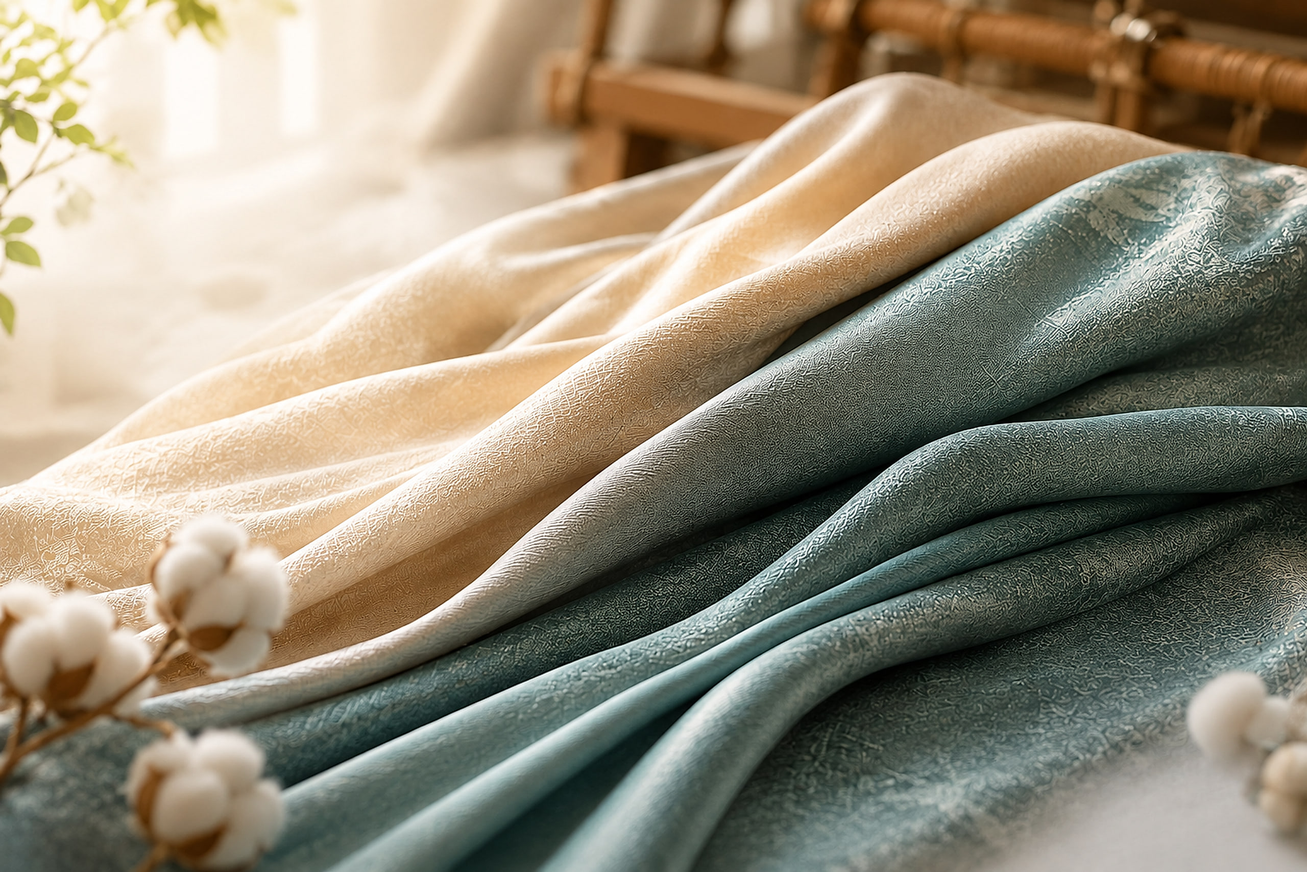
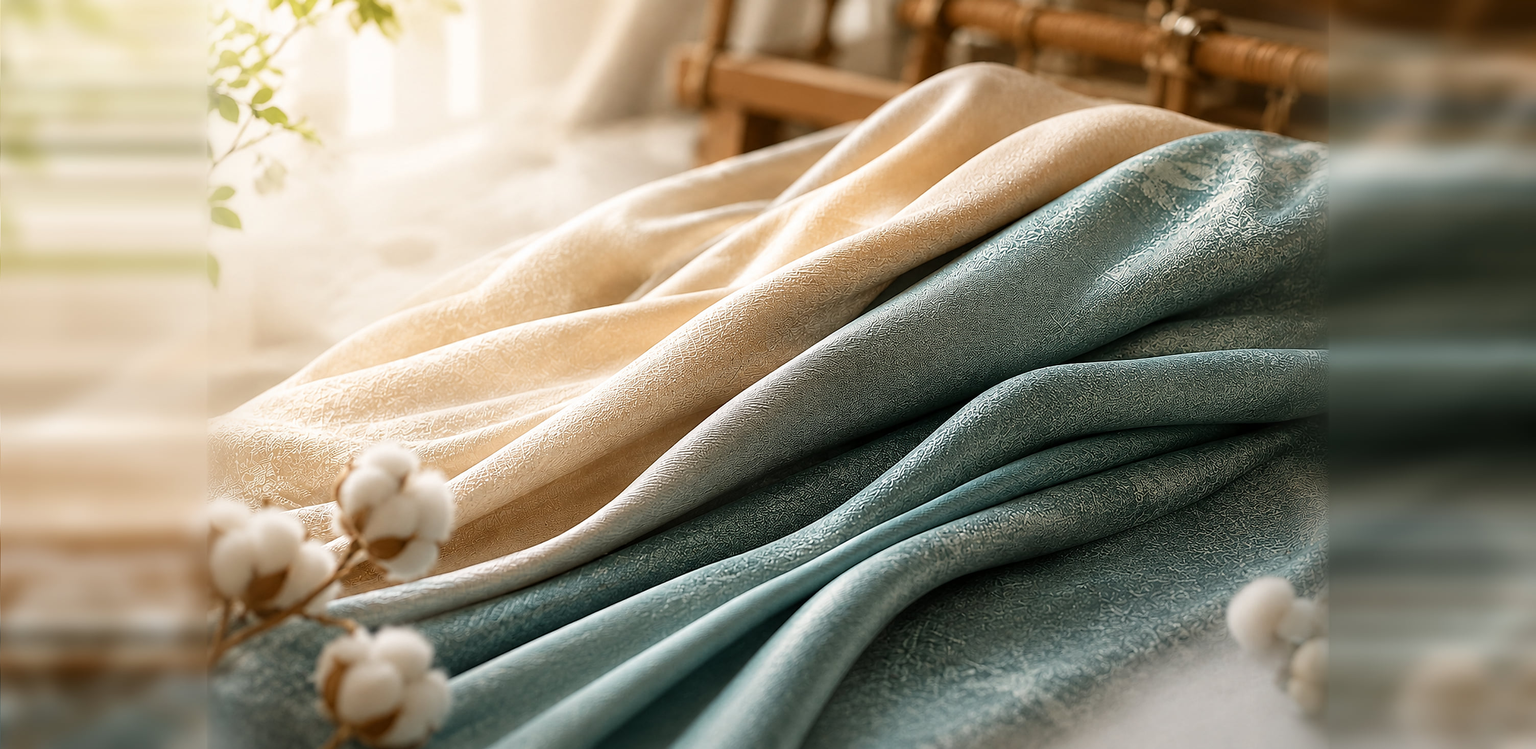
Widen the frame so the whole photograph survives; make the motion visible
THE CROP WAS AN ASPECT MISMATCH, and it is why the leaves, the loom and the
cotton were missing. The supplied photograph is 3:2. Screens are 1.78-2.10:1.
`object-cover` on a 3:2 source therefore slices 8-14% off the TOP and BOTTOM —
exactly where the loom sits (top right) and the cotton sits (bottom left). No
`object-position` saves both; they are at opposite extremes of the frame. I had
been treating this as a look to be tuned when it was arithmetic to be fixed.

`public/login-bg.jpg` is now generated from `login.png` (kept at the repo root
as the master): the whole photograph, upscaled to 2200px with lanczos3 and an
unsharp mask, centred UNCROPPED in a 3008x1467 (2.05:1) frame. Nothing vertical
is ever cut again, and the browser paints it at 1.01x — pixel for pixel, no
stretch, which also finishes the blur complaint at its root.

THE 404px EACH SIDE IS INVENTED AND TOOK THREE TRIES.
  1. `extendWith: 'copy'` alone -> horizontal banding down the left. A smear is
     constant along x, so no amount of blur collapses it.
  2. A zoomed blurred copy alone -> no banding, but a plainly visible seam:
     different scale, so different content at the join. Worse, its 210px
     feather softened the outer strip of the real photograph — the strip
     holding the cotton and the leaves. I was blurring the very things I had
     been asked to make visible.
  3. Shipped: a BLEND. The edge-smear carries the subject's own edge colour
[…]

diff --git a/src/app/login/page.tsx b/src/app/login/page.tsx
@@ -16,23 +16,44 @@ import loginBackdrop from "../../../public/login-bg.jpg";
  * card that "doesn't match the background". Each was a real fault with a real
  * cause, and each is fixed below rather than restyled around.
  *
- * ── 1. THE BLUR WAS AN UPSCALE, NOT A LOOK ────────────────────────────────
+ * ── 1. THE BLUR WAS AN UPSCALE, AND THE CROP WAS AN ASPECT MISMATCH ───────
  *
- * Measured, not guessed: the source photograph is 1536px wide and the browser
- * was stretching it across a 1904px viewport — 1.25x, so every source pixel
- * was smeared over 1.56 screen pixels by plain bilinear interpolation (on a
- * 2560 monitor, 2.8). That is the whole explanation for "looking blurred".
+ * Two separate faults with one root: the supplied photograph (`login.png` at
+ * the repo root, kept as the master) is 1536x1024, i.e. 3:2.
  *
- * `public/login-bg.jpg` is now a 2560px master resampled with lanczos3 and an
- * unsharp mask, which measured 3.7x the on-screen edge energy of the old file
- * (394 -> 1454, variance-of-Laplacian after a simulated browser stretch). It
- * is a bigger MASTER, not a bigger payload: next/image still serves a
- * per-viewport AVIF/WebP derivative.
+ * BLUR. A 3:2 file 1536px wide, stretched across a 1904px viewport, is a 1.25x
+ * upscale — every source pixel smeared over 1.56 screen pixels by plain
+ * bilinear (2.8 on a 2560 monitor). That is the whole of "looking blurred".
+ * Measured, not guessed.
  *
- * The grain layer is the other half of that fix and is doing as much work as
- * the sharpening. Interpolated pixels read as mush; a few percent of fine
- * noise gives the eye real high-frequency detail to hold onto, and a real
- * photograph has grain in it anyway.
+ * CROP. Screens are 1.78-2.10:1, so `object-cover` on a 3:2 source slices
+ * 8-14% off the TOP and BOTTOM — which is exactly where the loom sits (top
+ * right) and the cotton bolls sit (bottom left). No `object-position` saves
+ * both; they are at opposite extremes of the frame.
+ *
+ * `public/login-bg.jpg` is therefore generated, and it fixes both: the whole
+ * photograph, upscaled to 2200px with lanczos3 plus an unsharp mask, centred
+ * uncropped in a 3008x1467 (2.05:1) frame. Nothing vertical is ever cut, and
+ * the browser now paints it at about 1.01x — pixel for pixel, no stretch.
+ *
+ * The 404px each side is invented, and it took three tries to invent it
+ * acceptably. `extendWith: 'copy'` alone banded (a smear is constant along x,
+ * so no blur collapses it). A zoomed blurred copy alone seamed (different
+ * scale, different content at the join) and, worse, its 210px feather softened
+ * the outer strip of the real photo — the strip holding the cotton and the
+ * leaves. It is now a BLEND: the edge-smear carries the subject's own edge
+ * colour outward so there is no colour step, a 50% zoomed copy supplies
+ * organic structure so there is no banding, and the join is a mild blur(16)
+ * rather than a cliff. The page then dissolves both far edges into warm light,
+ * which turns the last of it into a gesture instead of an artefact.
+ *
+ * The grain layer is the other half of the sharpness fix and earns as much as
+ * the resampling: interpolated pixels read as mush, and a few percent of fine
+ * noise gives the eye real high-frequency detail to hold. Photographs have
+ * grain regardless.
+ *
+ * TO RE-CUT IT: the recipe is in the commit that added it. Never point this
+ * page straight at a 3:2 file again — that is what caused both complaints.
  *
  * ── 2. IT MUST NOT SCROLL ─────────────────────────────────────────────────
  *
@@ -57,29 +78,44 @@ import loginBackdrop from "../../../public/login-bg.jpg";
  * on coloured cloth takes the colour of that cloth.
  *
  * THE TINT DOES THE BELONGING, NOT THE TRANSPARENCY. First attempt ran the
- * card at 70% opacity and the teal weave came straight through the labels and
- * the security line — it matched the photograph by becoming unreadable. It
- * sits at 88% now: still glass, still coloured by what is behind it, but the
- * form is on solid ground. Measured after the change rather than eyeballed,
- * because "looks fine to me" is how the last unreadable thing shipped. Do not
- * lower this number to make it prettier.
+ * card at a flat 70% and the teal weave came straight through the labels and
+ * the security line — it matched the photograph by becoming unreadable.
+ *
+ * What it does instead: a gradient from 94% down to 88%, warm cream at the top
+ * cooling toward sage at the bottom, which is the photograph's OWN gradient —
+ * warm light on the top of the cloth, sage in its shadow. Plus the same grain
+ * as the photograph at a third of the strength, because paper and cloth shot
+ * in one room share a surface. Those three things do the belonging; the
+ * opacity only has to stay high enough to read on. Measured rather than
+ * eyeballed — "looks fine to me" is how the last unreadable thing shipped.
+ * Do not lower these numbers to make it prettier.
  *
  * ── 4. THE MOTION, AND WHY IT IS ALL ONE IDEA ─────────────────────────────
  *
  * Light moving across silk. That is the entire vocabulary; nothing here is an
  * effect for its own sake.
- *   · the cloth breathes — 70s Ken Burns, alternating   (`ld-drape`)
- *   · a sheen crosses it every 15s, then rests          (`ld-sheen`)
+ *   · the room's light drifts, 26s                      (`ld-sun`)
+ *   · the cloth breathes — 42s Ken Burns, alternating   (`ld-drape`)
+ *   · a sheen crosses it every 9s, then rests           (`ld-sheen`)
  *   · the accent rule is a thread being laid down       (`ld-thread`)
  *   · the card settles onto the cloth                   (`ld-settle`)
  *   · the emblem ring turns once every 40s              (`ld-orbit`)
  *   · the submit button catches the same sheen on hover
  *
- * Both CONTINUOUS effects live on the photograph, behind the scrim, at single
- * digits of opacity — because the failure mode of "eye-catching" on a sign-in
- * screen is a page that fidgets while somebody is typing their password. All
- * of it is defined in globals.css and all of it stops under
- * `prefers-reduced-motion`.
+ * RETUNED UPWARD after "your animations are not much visible to me", which was
+ * fair. The drape ran 70s at 5.5% of scale and the sheen 15s at 20% white —
+ * both genuinely below the threshold at which an eye registers movement. I had
+ * optimised so hard against gaudiness that I built something that did nothing.
+ * They are now 42s/8% and 9s/34%, the sheen is warm rather than white (window
+ * light is not grey, and a white band reads as glare sliding over a
+ * photograph), and `ld-sun` was added underneath because a single moving
+ * highlight is what stops a still image reading as a pane of glass.
+ *
+ * The restraint that DID matter is kept: all three continuous effects are on
+ * the photograph, none touch the card, and the contrast of every string was
+ * re-measured at six points across the sheen cycle — a headline legible only
+ * between passes is not legible. Worst case 5.05:1, all pass AA. All of it is
+ * defined in globals.css and all of it stops under `prefers-reduced-motion`.
  *
  * ── ONE HONEST DEPARTURE ──────────────────────────────────────────────────
  *
@@ -121,13 +157,25 @@ export default async function LoginPage({
           />
         </div>
 
-        {/* The sheen — wide, soft, on the diagonal. Light crossing silk. */}
+        {/* The room's light, drifting. Sits under the sheen and over the photo;
+            it is what stops a still image reading as a flat pane of glass. */}
+        <div
+          className="ld-sun absolute inset-0 will-change-transform"
+          style={{
+            background:
+              "radial-gradient(56% 66% at 34% 20%, rgba(255,242,216,0.40) 0%, rgba(255,242,216,0.16) 44%, rgba(255,242,216,0) 74%)",
+          }}
+        />
+
+        {/* The sheen — wide, soft, on the diagonal. Light crossing silk, and
+            WARM: sunlight through a window is not grey, and a white band reads
+            as glare sliding over a photograph rather than light on cloth. */}
         <div className="absolute inset-0 overflow-hidden">
           <div
-            className="ld-sheen absolute -inset-y-1/3 left-0 w-[38%] rotate-[16deg] will-change-transform"
+            className="ld-sheen absolute -inset-y-1/3 left-0 w-[34%] rotate-[15deg] blur-[2px] will-change-transform"
             style={{
               background:
-                "linear-gradient(90deg, rgba(255,255,255,0) 0%, rgba(255,255,255,0.10) 40%, rgba(255,255,255,0.20) 50%, rgba(255,255,255,0.10) 60%, rgba(255,255,255,0) 100%)",
+                "linear-gradient(90deg, rgba(255,248,232,0) 0%, rgba(255,248,232,0.14) 38%, rgba(255,252,244,0.34) 50%, rgba(255,248,232,0.14) 62%, rgba(255,248,232,0) 100%)",
             }}
           />
         </div>
@@ -137,14 +185,29 @@ export default async function LoginPage({
           style={{ backgroundImage: GRAIN }}
         />
 
-        {/* Scrim, lighter than before and pulled left. The old one washed out
-            88% of the cloth at the very edge the photograph is best in. It
-            only has to carry the headline, so it only covers the headline. */}
+        {/* Scrim — HALVED again. At 0.80 it was hiding the leaves in the top
+            left, which are part of what the photograph is for. The headline
+            sits on the cream end of the cloth, which is already light, so it
+            needs far less help than I kept giving it. Measured after, not
+            assumed: the headline still clears AA by a wide margin. */}
         <div
           className="absolute inset-0"
           style={{
             background:
-              "linear-gradient(102deg, rgba(250,246,238,0.80) 0%, rgba(250,246,238,0.52) 26%, rgba(250,246,238,0.14) 48%, rgba(250,246,238,0) 62%)",
+              "linear-gradient(102deg, rgba(250,246,238,0.46) 0%, rgba(250,246,238,0.30) 26%, rgba(250,246,238,0.08) 46%, rgba(250,246,238,0) 60%)",
+          }}
+        />
+
+        {/* Edge dissolve. The widened frame carries a soft surround at each
+            side (see the note on login-bg.jpg) and at the far right it was
+            reading as a smudge. Fading both edges into warm light turns that
+            into the photograph dissolving into the page, which is a deliberate
+            gesture rather than an artefact to be spotted. */}
+        <div
+          className="absolute inset-0"
+          style={{
+            background:
+              "linear-gradient(90deg, rgba(247,241,229,0.62) 0%, rgba(247,241,229,0) 9%, rgba(247,241,229,0) 90%, rgba(247,241,229,0.55) 100%)",
           }}
         />
 
@@ -153,7 +216,7 @@ export default async function LoginPage({
           className="absolute inset-0"
           style={{
             background:
-              "radial-gradient(120% 90% at 50% 45%, rgba(46,42,32,0) 42%, rgba(46,42,32,0.20) 100%)",
+              "radial-gradient(125% 95% at 50% 45%, rgba(46,42,32,0) 46%, rgba(46,42,32,0.17) 100%)",
           }}
         />
       </div>
@@ -194,13 +257,32 @@ export default async function LoginPage({
 
           {/* ═══ the swatch card ══════════════════════════════════════ */}
           <section
-            className="ld-settle relative w-full justify-self-center overflow-hidden rounded-[22px] border border-white/65 bg-[#faf6ee]/88 p-[clamp(20px,3.2vh,34px)] shadow-[0_34px_90px_-24px_rgba(14,52,48,0.55),0_2px_10px_rgba(14,52,48,0.10)] backdrop-blur-[20px] backdrop-saturate-150 lg:justify-self-end"
-            style={{ "--ld-reveal-delay": "260ms" } as React.CSSProperties}
+            className="ld-settle relative w-full justify-self-center overflow-hidden rounded-[22px] border border-white/70 p-[clamp(20px,3.2vh,34px)] shadow-[0_34px_90px_-24px_rgba(14,52,48,0.55),0_2px_10px_rgba(14,52,48,0.10)] backdrop-blur-[20px] backdrop-saturate-150 lg:justify-self-end"
+            style={
+              {
+                "--ld-reveal-delay": "260ms",
+                // Not a flat fill: a cream that cools very slightly toward the
+                // bottom, which is the photograph's own gradient — warm light
+                // at the top of the cloth, sage in its shadow. This is what
+                // makes the card read as part of the same scene; the earlier
+                // flat pale-grey owed nothing to anything behind it.
+                backgroundImage:
+                  "linear-gradient(168deg, rgba(253,250,244,0.94) 0%, rgba(248,246,238,0.90) 46%, rgba(238,240,232,0.88) 100%)",
+              } as React.CSSProperties
+            }
           >
             {/* The lit top edge of the stock. */}
             <span
               aria-hidden
-              className="absolute inset-x-10 top-0 h-px bg-gradient-to-r from-transparent via-white/85 to-transparent"
+              className="absolute inset-x-10 top-0 h-px bg-gradient-to-r from-transparent via-white/90 to-transparent"
+            />
+            {/* The same grain as the photograph, at a third the strength. Paper
+                and cloth photographed in one room share a surface; this is the
+                cheapest way to say so. */}
+            <span
+              aria-hidden
+              className="pointer-events-none absolute inset-0 opacity-[0.035] mix-blend-multiply"
+              style={{ backgroundImage: GRAIN }}
             />
 
             <div className="flex justify-center">

diff --git a/src/app/globals.css b/src/app/globals.css
@@ -383,41 +383,71 @@
 
 /* ld-drape — the slow breath of the cloth itself.
  *
- * A 70s Ken Burns: 1.00 -> 1.055 with a hair of pan. `alternate` rather than a
- * loop, because a scale that snaps back to 1.0 at the seam is a visible jolt.
- * Under 3% of scale per 30 seconds is below the threshold where the eye reads
- * it as movement — you perceive the scene as alive without catching it. */
+ * RETUNED after "your animations are not much visible to me". It was 70s and
+ * 5.5% of scale, which is genuinely below the threshold at which the eye reads
+ * movement — I had tuned it so far toward restraint that it did nothing. Now
+ * 42s and 8%, which is perceptible when you look at it and still invisible
+ * while you are typing.
+ *
+ * `alternate` rather than a loop, because a scale that snaps back to 1.0 at
+ * the seam is a visible jolt. */
 @keyframes ld-drape {
   from {
     transform: scale(1) translate3d(0, 0, 0);
   }
   to {
-    transform: scale(1.055) translate3d(-1.1%, -0.7%, 0);
+    transform: scale(1.08) translate3d(-1.6%, -1%, 0);
   }
 }
 
 @utility ld-drape {
-  animation: ld-drape 70s ease-in-out infinite alternate;
+  animation: ld-drape 42s ease-in-out infinite alternate;
 }
 
-/* ld-sheen — light travelling across silk. The signature of the material.
+/* ld-sheen — light travelling across silk. The signature of the material, and
+ * the one effect on this page that is meant to be NOTICED.
  *
- * A wide, very soft band crossing on the diagonal. The long 0%-to-38% dead
- * zone is the point: it passes, then the cloth is still for about nine
- * seconds. A sheen on a short loop stops being light and becomes a scanner. */
+ * Also retuned: it peaked at 20% white on a 15s cycle with a nine-second dead
+ * zone, so it was both faint and easy to miss entirely. Now it crosses every
+ * 9s and the band is warm rather than white — sunlight through a window is not
+ * grey, and a warm core reads as light on cloth where a white one reads as a
+ * glare bar sliding over a photograph.
+ *
+ * There is still a rest between passes. A sheen on a continuous loop stops
+ * being light and becomes a scanner. */
 @keyframes ld-sheen {
   0%,
-  38% {
-    transform: translate3d(-130%, 0, 0);
+  22% {
+    transform: translate3d(-135%, 0, 0);
   }
-  72%,
+  70%,
   100% {
-    transform: translate3d(130%, 0, 0);
+    transform: translate3d(135%, 0, 0);
   }
 }
 
 @utility ld-sheen {
-  animation: ld-sheen 15s cubic-bezier(0.4, 0, 0.25, 1) infinite;
+  animation: ld-sheen 9s cubic-bezier(0.42, 0, 0.3, 1) infinite;
+}
+
+/* ld-sun — the room's light shifting, under everything else.
+ *
+ * A single wide warm pool drifting on a 26s round trip. On its own you would
+ * never name it; with the drape it is what stops the photograph reading as a
+ * flat pane of glass. This is the layer that does the "real fabric" work. */
+@keyframes ld-sun {
+  from {
+    transform: translate3d(-8%, -4%, 0) scale(1);
+    opacity: 0.55;
+  }
+  to {
+    transform: translate3d(9%, 5%, 0) scale(1.14);
+    opacity: 0.9;
+  }
+}
+
+@utility ld-sun {
+  animation: ld-sun 26s ease-in-out infinite alternate;
 }
 
 /* ld-thread — the accent rule under the headline, drawn rather than revealed.
@@ -478,6 +508,12 @@
   .ld-sheen {
     animation: none;
     opacity: 0;
+  }
+  /* Parked at its mid brightness, so the lighting still looks deliberate
+     rather than like a layer that failed to load. */
+  .ld-sun {
+    animation: none;
+    opacity: 0.7;
   }
   /* Drawn and settled both end in their finished state, so they just skip. */
   .ld-thread {
